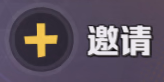
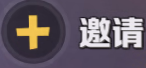
更新ios图像资源

Changed region(s): [[0.5205, 0.2353, 1.0, 0.7353], [0.0, 0.0, 0.4384, 0.9412]]

diff --git a/zombie/zombie-ios.py b/zombie/zombie-ios.py
@@ -9,37 +9,50 @@ from _debug import now, debug_image
 from _game import distribute
 from _image import img
 from _locate import locate, locate_all, set_game_window
+from _rescue import match_rescues, load_rescues
+from _skill import load_skills, match_skills_from_screenshot
 
 CLICK_INTERVAL = 0.2
 ROOM_WAIT_TIMEOUT = 15
+
+NORMAL_LEFT_OFFSET = 17
+NORMAL_RIGHT_OFFSET = 536
+NORMAL_TOP_OFFSET = 1279
+NORMAL_BOTTOM_OFFSET = 20
+
+BIG_LEFT_OFFSET = 23
+BIG_RIGHT_OFFSET = 704
+BIG_TOP_OFFSET = 1550
+BIG_BOTTOM_OFFSET = 28
 
 
 def screenshot():
   return pyscreeze.screenshot()
 
 
-def click(location, offset_x=0, offset_y=0):
+def click(location, offset_x=0, offset_y=0, once=False):
   center = pyautogui.center(location)
   pyautogui.click(x=center.x // 2 + offset_x, y=center.y // 2 + offset_y)
   time.sleep(CLICK_INTERVAL)
-  pyautogui.click(x=center.x // 2 + offset_x, y=center.y // 2 + offset_y)
-  time.sleep(CLICK_INTERVAL)
+  if not once:
+    pyautogui.click(x=center.x // 2 + offset_x, y=center.y // 2 + offset_y)
+    time.sleep(CLICK_INTERVAL)
 
 
 def get_game_window_left(location_back):
-  return location_back.left - 33
+  return location_back.left - BIG_LEFT_OFFSET
 
 
 def get_game_window_top(location_back):
-  return location_back.top - 1650
+  return location_back.top - BIG_TOP_OFFSET
 
 
 def get_game_window_bottom(location_back):
-  return location_back.top + location_back.height + 37
+  return location_back.top + location_back.height + BIG_BOTTOM_OFFSET
 
 
 def get_game_window_right(location_back):
-  return location_back.left + location_back.width + 704
+  return location_back.left + location_back.width + BIG_RIGHT_OFFSET
 
 
 def get_game_window(screen):
@@ -83,13 +96,16 @@ def check_reconnect(im):
 
 def select_fight(im, window, fights):
   if len(fights) > 0:
-    print(len(fights))
     debug_image(im, window, 'fights')
 
-  for pos in fights:
-    print(f"{now()} - \t{pos} - ({pos.left // 2 + 160},{pos.top // 2 - 35}) - {pyautogui.position()}")
-  for pos in fights:
-    return pos
+  _max = -1
+  _max_pos = None
+  for rescue_level, rescue_name, rescue_rect, rescue_image in fights:
+    print(f"{now()} - \t{rescue_level} - {rescue_name} - {rescue_rect}")
+    if rescue_level > _max:
+      _max = rescue_level
+      _max_pos = rescue_rect
+  return _max, _max_pos
 
 
 def fighting(window):
@@ -112,6 +128,8 @@ def fighting(window):
       match_left_bottoms = list(locate_all(img('skill-left-bottom.png'), im))
       match_right_tops = list(locate_all(img('skill-right-top.png'), im, ))
       print(f'{now()} - 选择技能({len(match_left_bottoms)} - {len(match_right_tops)}): {time.time() - start}')
+      for image_index, kind_name, skill_name, _, _, _ in match_skills_from_screenshot(im):
+        print(f'{now()} - \t{image_index} - 技能[{kind_name} - {skill_name}]: {time.time() - start}')
       debug_image(im, window, 'skills')
 
     location_elite_skills = locate(img('elite-skill-close.png'), im)
@@ -157,9 +175,14 @@ def find_fight(window):
 
     location_fight_list = locate(img('fight-list.png'), im)
     if location_fight_list:
-      fight = select_fight(im, window, list(locate_all(img('rescue.png'), im)))
-      if fight:
-        fight_prepare(fight, window)
+      level, fight = select_fight(im, window, list(match_rescues(im)))
+      if fight is not None:
+        if level >= 5 or level == 0:
+          fight_prepare(fight, window)
+        else:
+          print(f"{now()} - 寰球等级[{level}]太低, 拒绝战斗")
+          click(fight, 160, 0, True)
+          continue
       time.sleep(0.7)
     else:
       break
@@ -173,7 +196,7 @@ def detect_team_invite(window):
     if check_reconnect(im):
       continue
 
-    location_invite = locate(img('team-invite.png'), im)
+    location_invite = locate(img('team-invite'), im)
     if location_invite:
       print(f'{now()} - 检测到副本邀请,进入副本列表...')
       click(location_invite)
@@ -194,7 +217,10 @@ def get_bounds_of_game():
 
 
 if __name__ == "__main__":
-  print(f'游戏发行版本: {distribute(sys.argv, "mp")}')
+  print(f'游戏发行版本: {distribute(sys.argv, "ios")}')
+
+  load_rescues()
+  load_skills()
 
   window = get_game_window(screenshot())
   if window:
